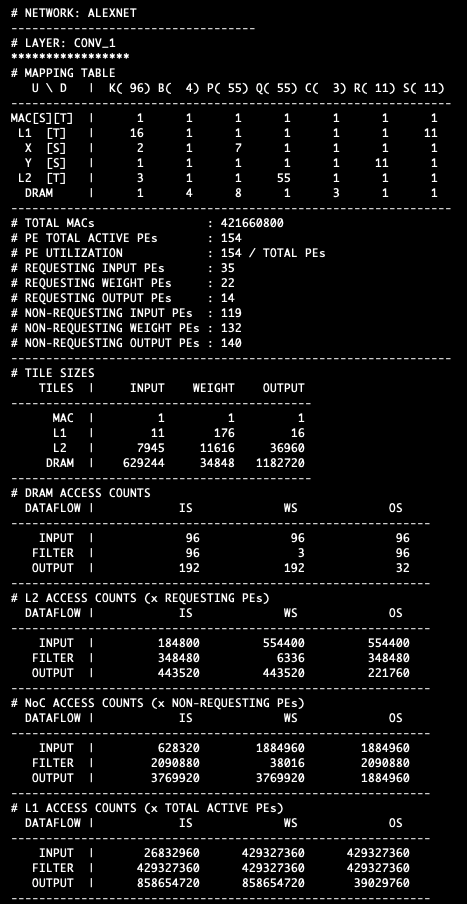
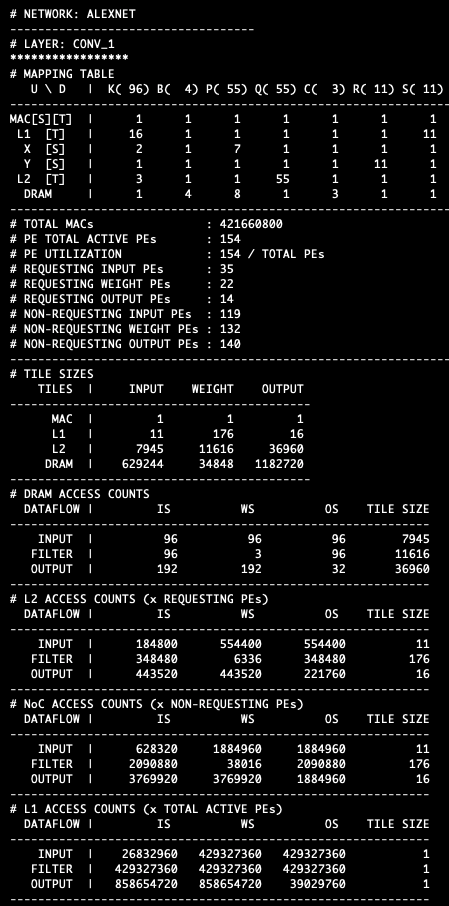
update

diff --git a/src/mapping_table.cc b/src/mapping_table.cc
@@ -291,81 +291,98 @@ void mapping_table_t::print_tile_size() {
 }
 
 void mapping_table_t::print_access_cnts() {
+    unsigned num_setw = 12;
     std::cout << "# DRAM ACCESS COUNTS" << std::endl;
     std::cout << std::setw(12) << " DATAFLOW |" 
-              << std::setw(15) << " IS "
-              << std::setw(15) << " WS "
-              << std::setw(15) << " OS " << std::endl; 
+              << std::setw(num_setw) << " IS "
+              << std::setw(num_setw) << " WS "
+              << std::setw(num_setw) << " OS "  
+              << std::setw(num_setw) << " TILE SIZE" << std::endl; 
     handler.print_line(60, "-");
     std::cout << std::setw(12) << "   INPUT  |" 
-              << std::setw(15) << DRAM_access_cnts.is.input_cnts 
-              << std::setw(15) << DRAM_access_cnts.ws.input_cnts
-              << std::setw(15) << DRAM_access_cnts.os.input_cnts << std::endl; 
+              << std::setw(num_setw) << DRAM_access_cnts.is.input_cnts 
+              << std::setw(num_setw) << DRAM_access_cnts.ws.input_cnts
+              << std::setw(num_setw) << DRAM_access_cnts.os.input_cnts 
+              << std::setw(num_setw) << tile_sizes.L2.input_tile << std::endl; 
     std::cout << std::setw(12) << "  FILTER  |" 
-              << std::setw(15) << DRAM_access_cnts.is.weight_cnts 
-              << std::setw(15) << DRAM_access_cnts.ws.weight_cnts
-              << std::setw(15) << DRAM_access_cnts.os.weight_cnts << std::endl; 
+              << std::setw(num_setw) << DRAM_access_cnts.is.weight_cnts 
+              << std::setw(num_setw) << DRAM_access_cnts.ws.weight_cnts
+              << std::setw(num_setw) << DRAM_access_cnts.os.weight_cnts  
+              << std::setw(num_setw) << tile_sizes.L2.weight_tile << std::endl; 
     std::cout << std::setw(12) << "  OUTPUT  |" 
-              << std::setw(15) << DRAM_access_cnts.is.output_cnts 
-              << std::setw(15) << DRAM_access_cnts.ws.output_cnts
-              << std::setw(15) << DRAM_access_cnts.os.output_cnts << std::endl; 
+              << std::setw(num_setw) << DRAM_access_cnts.is.output_cnts 
+              << std::setw(num_setw) << DRAM_access_cnts.ws.output_cnts
+              << std::setw(num_setw) << DRAM_access_cnts.os.output_cnts 
+              << std::setw(num_setw) << tile_sizes.L2.output_tile << std::endl; 
     handler.print_line(60, "-");
     std::cout << "# L2 ACCESS COUNTS (x REQUESTING PEs)" << std::endl;
     std::cout << std::setw(12) << " DATAFLOW |" 
-              << std::setw(15) << " IS "
-              << std::setw(15) << " WS "
-              << std::setw(15) << " OS " << std::endl; 
+              << std::setw(num_setw) << " IS "
+              << std::setw(num_setw) << " WS "
+              << std::setw(num_setw) << " OS "  
+              << std::setw(num_setw) << " TILE SIZE" << std::endl; 
     handler.print_line(60, "-");
     std::cout << std::setw(12) << "   INPUT  |" 
-              << std::setw(15) << L2_access_cnts.is.input_cnts
-              << std::setw(15) << L2_access_cnts.ws.input_cnts
-              << std::setw(15) << L2_access_cnts.os.input_cnts << std::endl; 
+              << std::setw(num_setw) << L2_access_cnts.is.input_cnts
+              << std::setw(num_setw) << L2_access_cnts.ws.input_cnts
+              << std::setw(num_setw) << L2_access_cnts.os.input_cnts  
+              << std::setw(num_setw) << tile_sizes.L1.input_tile << std::endl; 
     std::cout << std::setw(12) << "  FILTER  |" 
-              << std::setw(15) << L2_access_cnts.is.weight_cnts
-              << std::setw(15) << L2_access_cnts.ws.weight_cnts
-              << std::setw(15) << L2_access_cnts.os.weight_cnts << std::endl; 
+              << std::setw(num_setw) << L2_access_cnts.is.weight_cnts
+              << std::setw(num_setw) << L2_access_cnts.ws.weight_cnts
+              << std::setw(num_setw) << L2_access_cnts.os.weight_cnts  
+              << std::setw(num_setw) << tile_sizes.L1.weight_tile << std::endl; 
     std::cout << std::setw(12) << "  OUTPUT  |" 
-              << std::setw(15) << L2_access_cnts.is.output_cnts
-              << std::setw(15) << L2_access_cnts.ws.output_cnts
-              << std::setw(15) << L2_access_cnts.os.output_cnts << std::endl; 
+              << std::setw(num_setw) << L2_access_cnts.is.output_cnts
+              << std::setw(num_setw) << L2_access_cnts.ws.output_cnts
+              << std::setw(num_setw) << L2_access_cnts.os.output_cnts 
+              << std::setw(num_setw) << tile_sizes.L1.output_tile << std::endl; 
     handler.print_line(60, "-");
     std::cout << "# NoC ACCESS COUNTS (x NON-REQUESTING PEs)" << std::endl;
     std::cout << std::setw(12) << " DATAFLOW |" 
-              << std::setw(15) << " IS "
-              << std::setw(15) << " WS "
-              << std::setw(15) << " OS " << std::endl; 
+              << std::setw(num_setw) << " IS "
+              << std::setw(num_setw) << " WS "
+              << std::setw(num_setw) << " OS "  
+              << std::setw(num_setw) << " TILE SIZE" << std::endl; 
     handler.print_line(60, "-");
     std::cout << std::setw(12) << "   INPUT  |" 
-              << std::setw(15) << noc_access_cnts.is.input_cnts
-              << std::setw(15) << noc_access_cnts.ws.input_cnts
-              << std::setw(15) << noc_access_cnts.os.input_cnts << std::endl; 
+              << std::setw(num_setw) << noc_access_cnts.is.input_cnts
+              << std::setw(num_setw) << noc_access_cnts.ws.input_cnts
+              << std::setw(num_setw) << noc_access_cnts.os.input_cnts 
+              << std::setw(num_setw) << tile_sizes.L1.input_tile << std::endl; 
     std::cout << std::setw(12) << "  FILTER  |" 
-              << std::setw(15) << noc_access_cnts.is.weight_cnts
-              << std::setw(15) << noc_access_cnts.ws.weight_cnts
-              << std::setw(15) << noc_access_cnts.os.weight_cnts << std::endl; 
+              << std::setw(num_setw) << noc_access_cnts.is.weight_cnts
+              << std::setw(num_setw) << noc_access_cnts.ws.weight_cnts
+              << std::setw(num_setw) << noc_access_cnts.os.weight_cnts  
+              << std::setw(num_setw) << tile_sizes.L1.weight_tile << std::endl; 
     std::cout << std::setw(12) << "  OUTPUT  |" 
-              << std::setw(15) << noc_access_cnts.is.output_cnts
-              << std::setw(15) << noc_access_cnts.ws.output_cnts
-              << std::setw(15) << noc_access_cnts.os.output_cnts << std::endl; 
+              << std::setw(num_setw) << noc_access_cnts.is.output_cnts
+              << std::setw(num_setw) << noc_access_cnts.ws.output_cnts
+              << std::setw(num_setw) << noc_access_cnts.os.output_cnts 
+              << std::setw(num_setw) << tile_sizes.L1.output_tile << std::endl; 
     handler.print_line(60, "-");
     std::cout << "# L1 ACCESS COUNTS (x TOTAL ACTIVE PEs)" << std::endl;
     std::cout << std::setw(12) << " DATAFLOW |" 
-              << std::setw(15) << " IS "
-              << std::setw(15) << " WS "
-              << std::setw(15) << " OS " << std::endl; 
+              << std::setw(num_setw) << " IS "
+              << std::setw(num_setw) << " WS "
+              << std::setw(num_setw) << " OS "  
+              << std::setw(num_setw) << " TILE SIZE" << std::endl; 
     handler.print_line(60, "-");
     std::cout << std::setw(12) << "   INPUT  |" 
-              << std::setw(15) << L1_access_cnts.is.input_cnts
-              << std::setw(15) << L1_access_cnts.ws.input_cnts
-              << std::setw(15) << L1_access_cnts.os.input_cnts << std::endl; 
+              << std::setw(num_setw) << L1_access_cnts.is.input_cnts
+              << std::setw(num_setw) << L1_access_cnts.ws.input_cnts
+              << std::setw(num_setw) << L1_access_cnts.os.input_cnts 
+              << std::setw(num_setw) << tile_sizes.MAC.input_tile << std::endl; 
     std::cout << std::setw(12) << "  FILTER  |" 
-              << std::setw(15) << L1_access_cnts.is.weight_cnts
-              << std::setw(15) << L1_access_cnts.ws.weight_cnts
-              << std::setw(15) << L1_access_cnts.os.weight_cnts << std::endl; 
+              << std::setw(num_setw) << L1_access_cnts.is.weight_cnts
+              << std::setw(num_setw) << L1_access_cnts.ws.weight_cnts
+              << std::setw(num_setw) << L1_access_cnts.os.weight_cnts 
+              << std::setw(num_setw) << tile_sizes.MAC.weight_tile << std::endl; 
     std::cout << std::setw(12) << "  OUTPUT  |" 
-              << std::setw(15) << L1_access_cnts.is.output_cnts
-              << std::setw(15) << L1_access_cnts.ws.output_cnts
-              << std::setw(15) << L1_access_cnts.os.output_cnts << std::endl; 
+              << std::setw(num_setw) << L1_access_cnts.is.output_cnts
+              << std::setw(num_setw) << L1_access_cnts.ws.output_cnts
+              << std::setw(num_setw) << L1_access_cnts.os.output_cnts 
+              << std::setw(num_setw) << tile_sizes.MAC.output_tile << std::endl; 
     handler.print_line(60, "-");
 }
 
